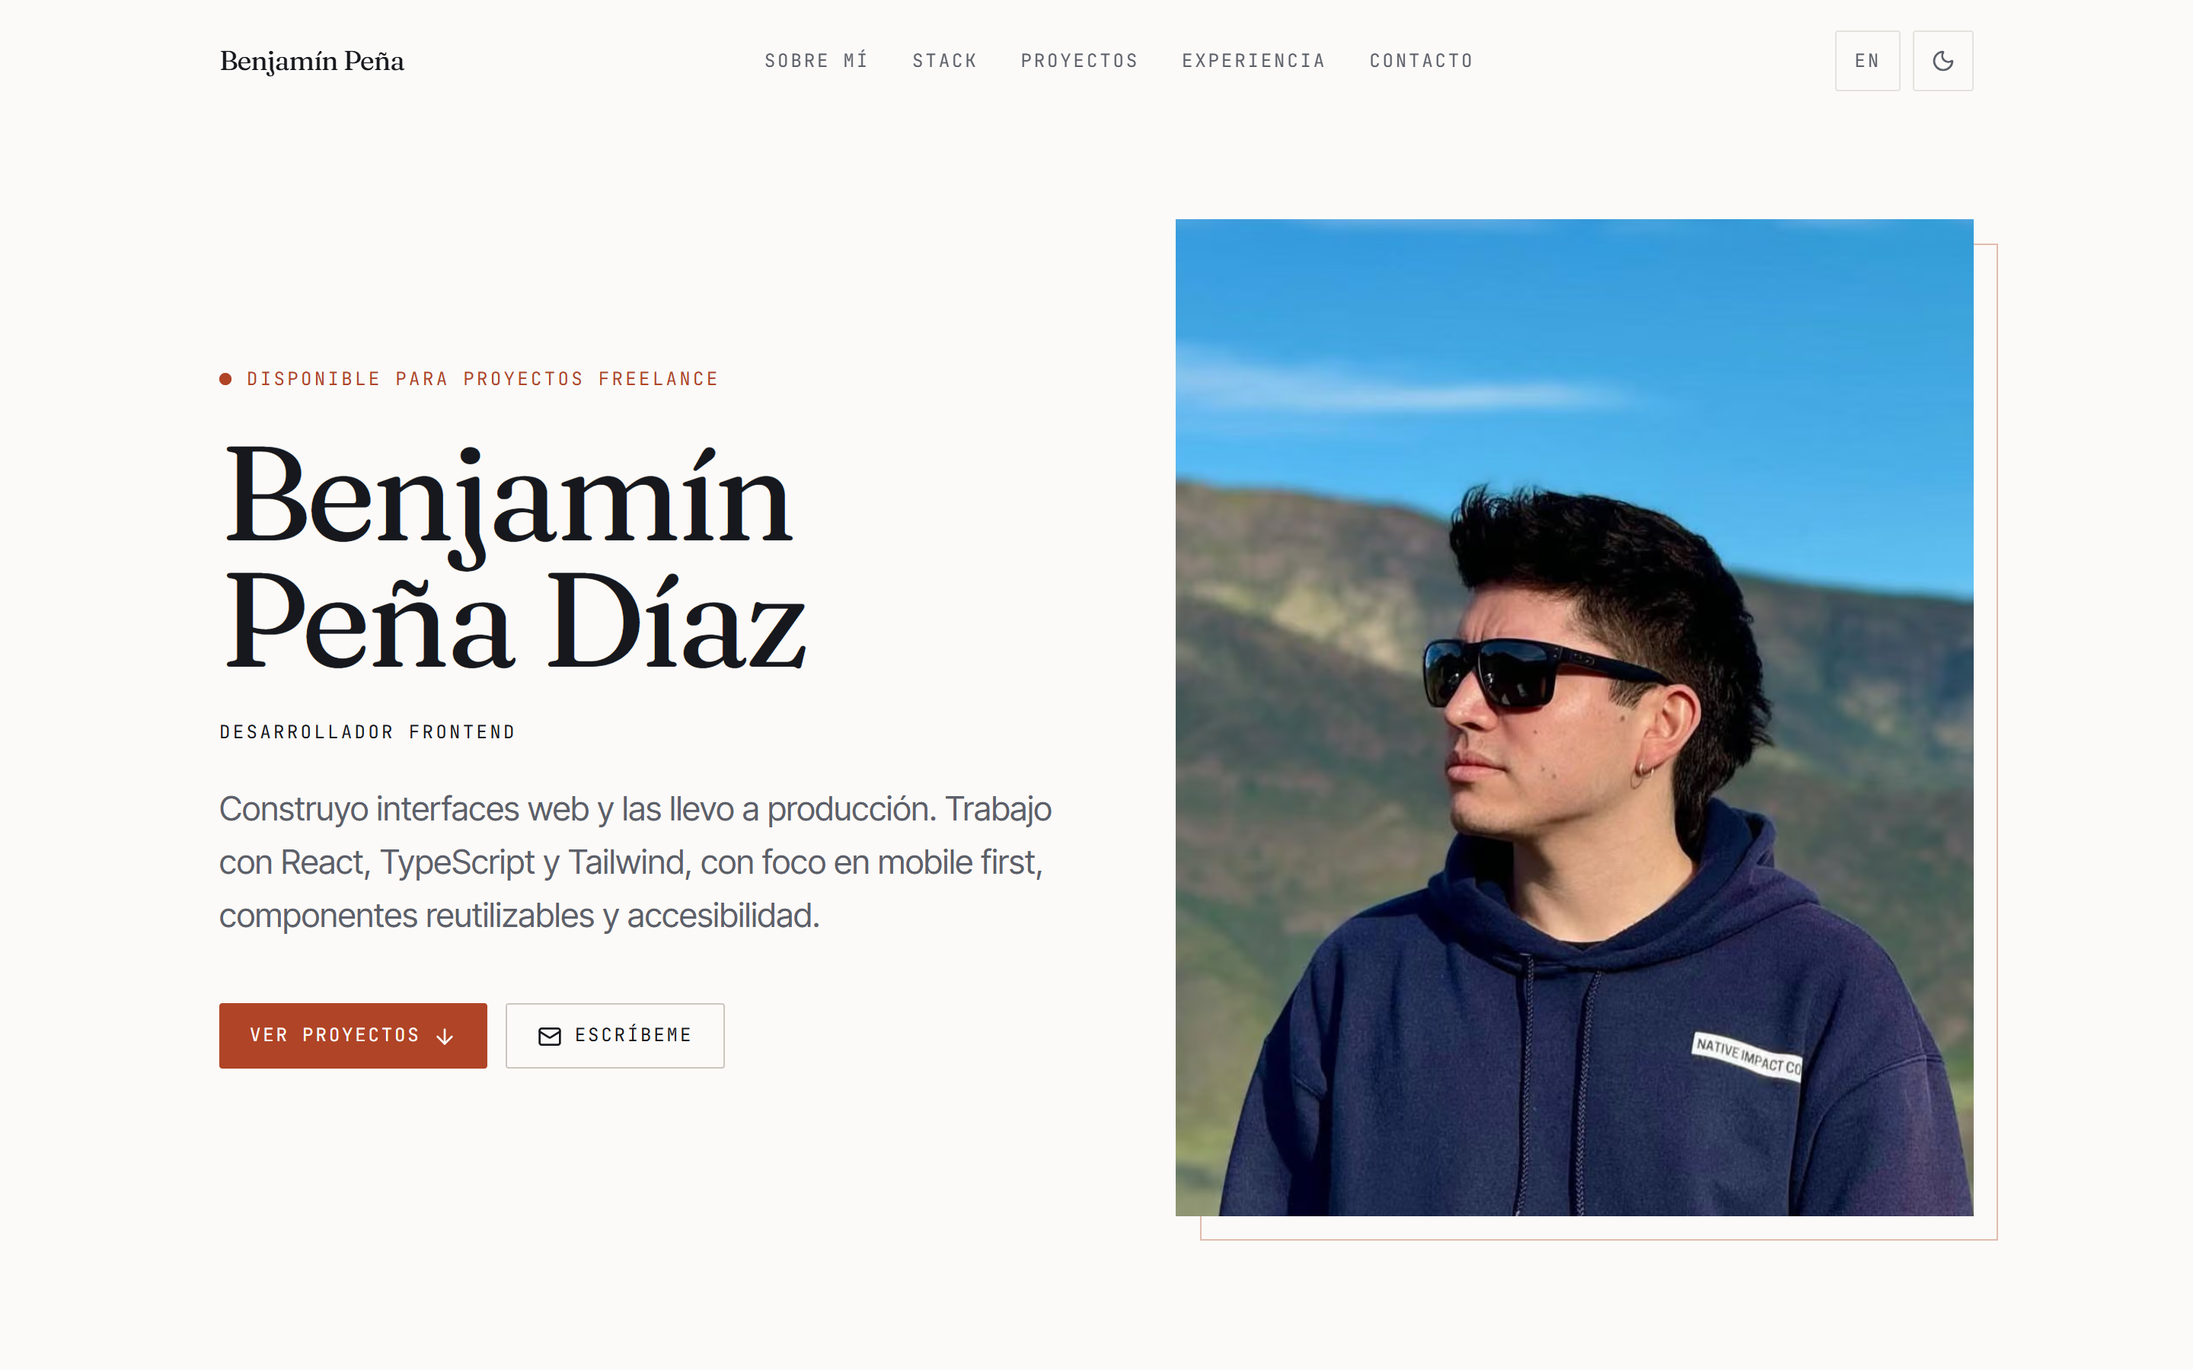
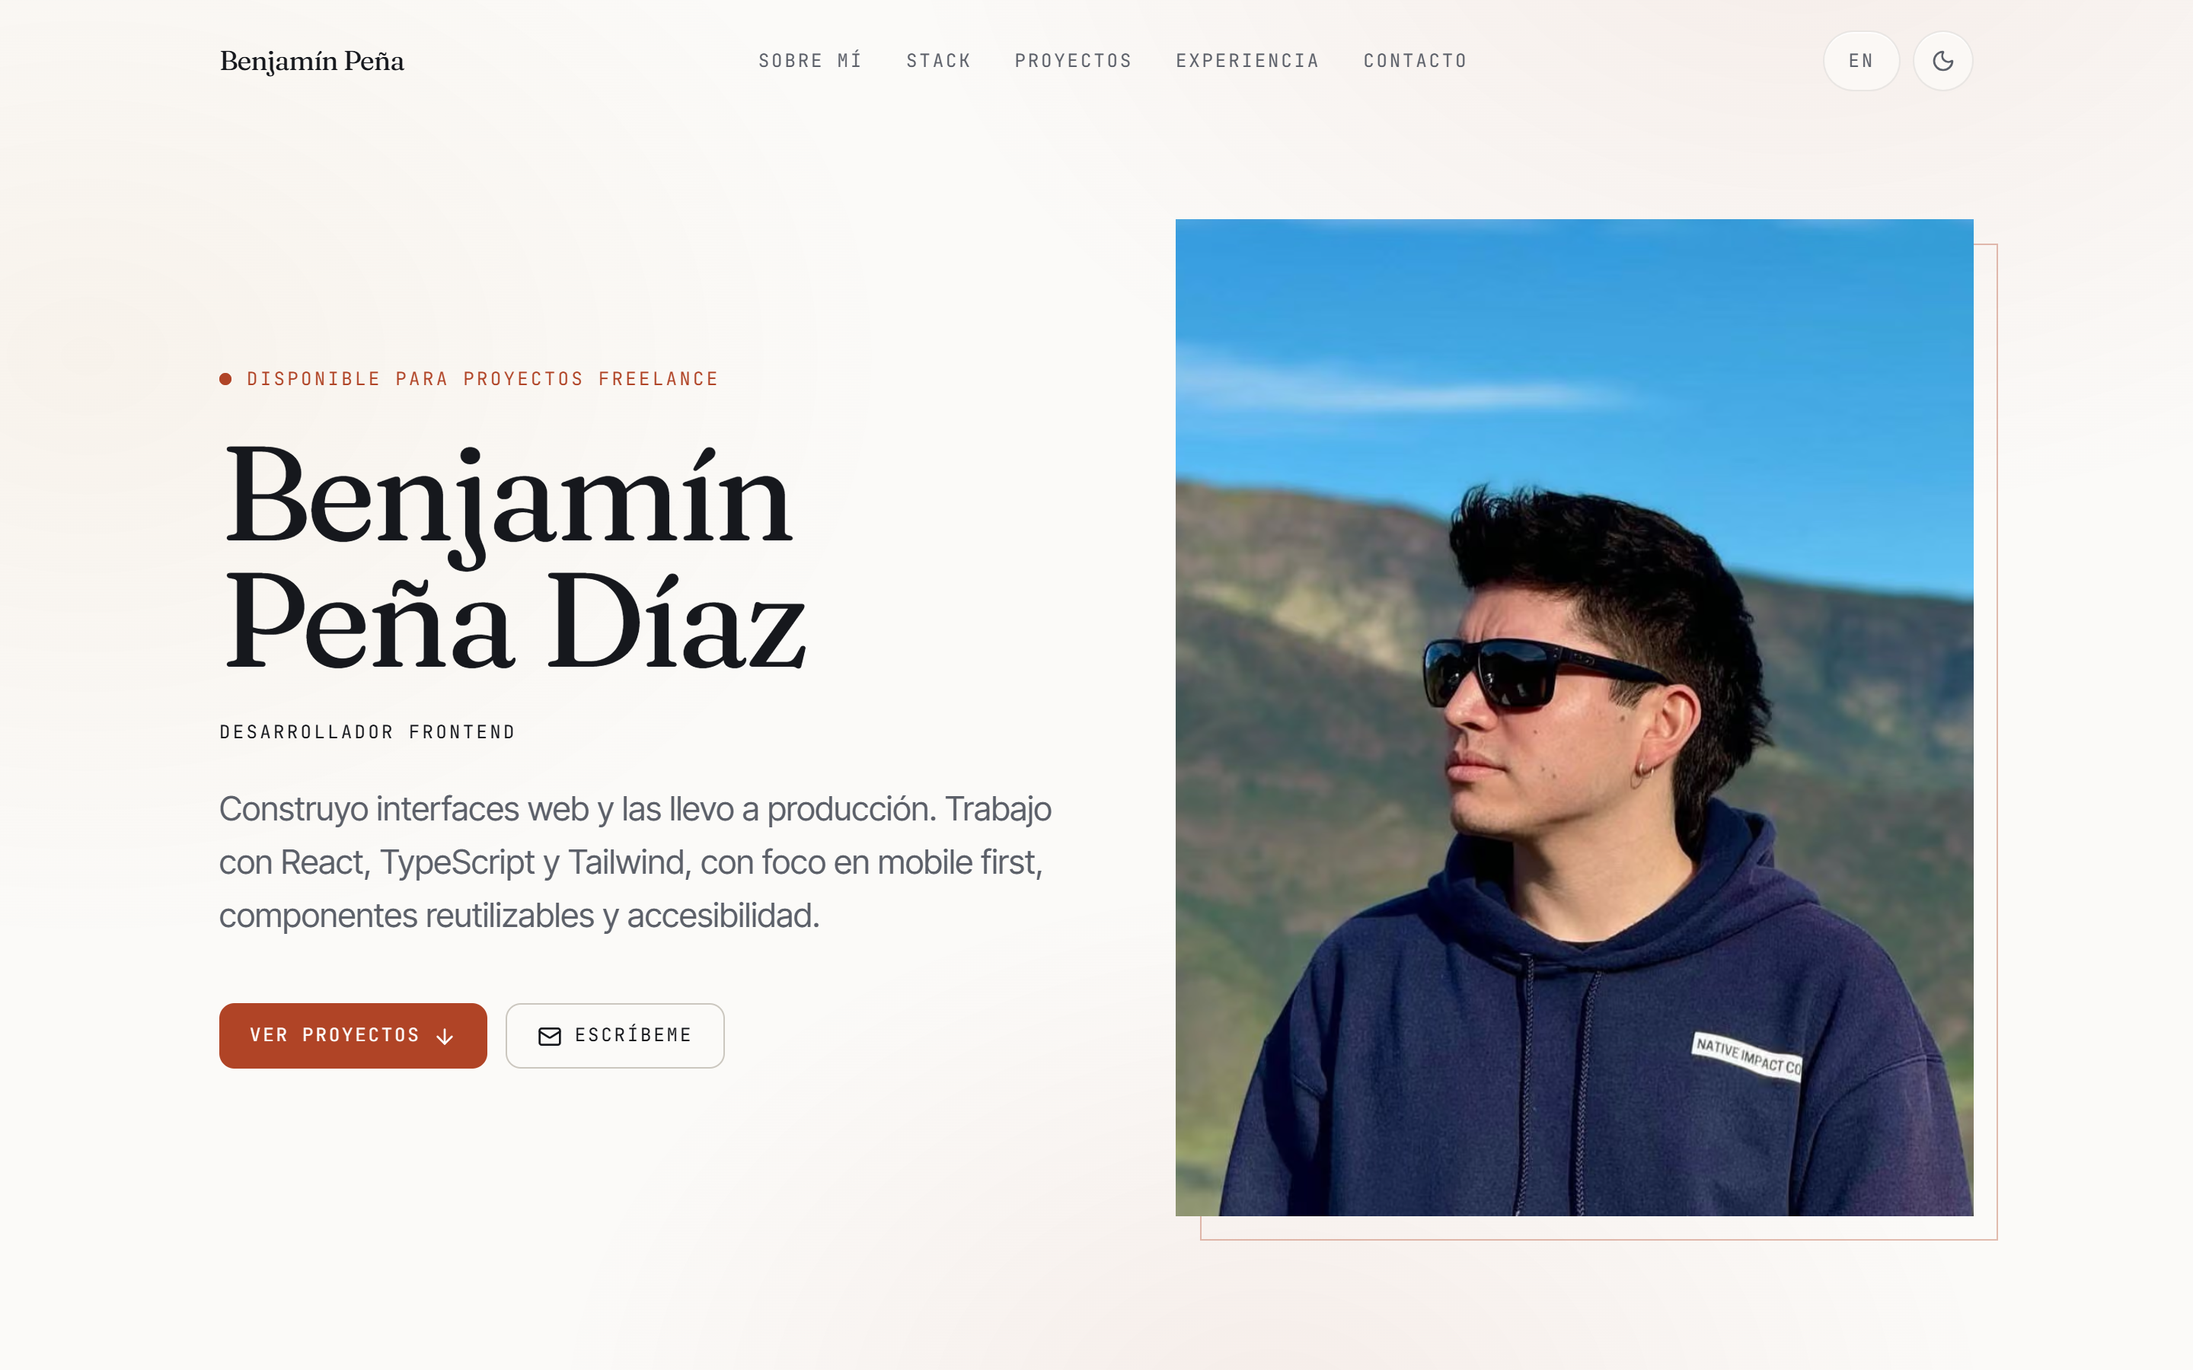
feat(diseño): progreso de lectura, auras de fondo y superficies de vidrio
Toma prestado del material translúcido de macOS Tahoe, pero solo en
parte: aplicarlo entero habría borrado el carácter editorial del sitio,
que se apoya en ser plano y recto.

El criterio es que la forma diga qué es cada cosa. El contenido sigue
opaco y con radios de 2 px; lo que flota y es pulsable —encabezado,
controles de tema e idioma, menú móvil— pasa a vidrio redondeado. Así el
material comunica "esto es un control" en vez de decorar.

- Barra de progreso de lectura con `animation-timeline: scroll(root)`:
  cero JavaScript y fuera del hilo principal.
- Tres auras radiales muy tenues detrás del contenido. Los dos tonos
  salen del mismo acento, uno girado hacia el ámbar, para no romper la
  regla de un solo color.
- Superficies de vidrio con saturación además de desenfoque, y reflejo
  especular en el canto superior.

Un detalle que costó encontrar: escrito a mano, el minificador dejaba
`-webkit-backdrop-filter:blur(16px)saturate(180%)` sin el espacio
obligatorio entre funciones, con lo que la declaración quedaba inválida
y el desenfoque no se aplicaba nunca. Se veía el texto de la sección
anterior nítido a través del encabezado. Ahora el filtro se aplica con
las utilidades de Tailwind, y el vidrio va al 80 % de opacidad para que
el encabezado siga legible aunque el desenfoque falle.

axe: 0 violaciones en las cinco pantallas.

diff --git a/src/app/globals.css b/src/app/globals.css
@@ -28,6 +28,18 @@
   --c-acento-sobre:  #FFFFFF;  /*  5.7:1 sobre acento — AA */
   --c-acento-tenue:  rgba(176, 68, 38, 0.09);
   --c-sombra:        rgba(22, 24, 29, 0.07);
+
+  /* Auras: gradientes muy tenues que dan profundidad al fondo.
+     Ambos tonos salen del acento — uno tal cual y otro girado hacia el
+     ámbar — para no romper la regla de un solo acento. */
+  --c-aura-calida:   rgba(176, 68, 38, 0.07);
+  --c-aura-ambar:    rgba(198, 126, 42, 0.06);
+
+  /* Vidrio: superficies flotantes translúcidas. El borde superior claro
+     imita el reflejo especular que da volumen al material. */
+  --c-vidrio:        rgba(251, 250, 248, 0.80);
+  --c-vidrio-brillo: rgba(255, 255, 255, 0.85);
+  --c-vidrio-borde:  rgba(22, 24, 29, 0.08);
 }
 
 [data-tema="dark"] {
@@ -47,6 +59,14 @@
   --c-acento-sobre:  #14100E;  /*  6.6:1 sobre acento — AA */
   --c-acento-tenue:  rgba(240, 120, 78, 0.13);
   --c-sombra:        rgba(0, 0, 0, 0.4);
+
+  /* En oscuro las auras necesitan algo más de cuerpo para leerse */
+  --c-aura-calida:   rgba(240, 120, 78, 0.11);
+  --c-aura-ambar:    rgba(255, 176, 90, 0.07);
+
+  --c-vidrio:        rgba(12, 14, 18, 0.80);
+  --c-vidrio-brillo: rgba(255, 255, 255, 0.10);
+  --c-vidrio-borde:  rgba(255, 255, 255, 0.08);
 }
 
 @theme inline {
@@ -63,6 +83,8 @@
   --color-acentohover:  var(--c-acento-hover);
   --color-acentosobre:  var(--c-acento-sobre);
   --color-acentotenue:  var(--c-acento-tenue);
+  --color-vidrio:       var(--c-vidrio);
+  --color-vidrioborde:  var(--c-vidrio-borde);
 
   /* --- Tipografía --- */
   --font-display: var(--fuente-display), Georgia, "Times New Roman", serif;
@@ -94,8 +116,12 @@
   --container-lienzo:   77rem;  /* ancho máximo del contenido */
 
   /* --- Forma --- */
-  --radius-pieza: 2px;   /* casi recto: editorial, no burbuja */
-  --radius-chip:  3px;
+  /* Dos familias de forma, y la diferencia es intencional:
+     el contenido editorial va casi recto, y lo que es un control
+     flotante va redondeado. Así la forma comunica qué es pulsable. */
+  --radius-pieza:   2px;    /* tarjetas, reglas: editorial */
+  --radius-control: 10px;   /* botones */
+  --radius-chip:    7px;
 
   /* --- Movimiento --- */
   --ease-salida: cubic-bezier(0.16, 1, 0.3, 1);
@@ -117,8 +143,14 @@
     -webkit-text-size-adjust: 100%;
   }
 
-  body {
+  html {
+    /* El color vive aquí, no en <body>, para que la capa de auras pueda
+       colocarse detrás del contenido con z-index negativo. */
     background-color: var(--c-fondo);
+  }
+
+  body {
+    background-color: transparent;
     color: var(--c-texto);
     font-family: var(--font-sans);
     font-size: var(--text-cuerpo);
@@ -307,5 +339,111 @@
   ::view-transition-old(*),
   ::view-transition-new(*) {
     animation: none !important;
+  }
+}
+
+/* ============================================================
+   AURAS AMBIENTALES
+
+   Tres gradientes radiales muy tenues, fijos detrás del contenido.
+   Dan profundidad sin ruido y sin coste: son gradientes de fondo, no
+   un filtro de desenfoque, así que no obligan a la GPU a recomponer.
+   ============================================================ */
+
+.ambiente {
+  position: fixed;
+  inset: 0;
+  z-index: -1;
+  pointer-events: none;
+  background:
+    radial-gradient(
+      60rem 42rem at 82% -8%,
+      var(--c-aura-calida),
+      transparent 62%
+    ),
+    radial-gradient(
+      52rem 38rem at 4% 26%,
+      var(--c-aura-ambar),
+      transparent 64%
+    ),
+    radial-gradient(
+      48rem 36rem at 58% 104%,
+      var(--c-aura-calida),
+      transparent 62%
+    );
+}
+
+/* ============================================================
+   PROGRESO DE LECTURA
+
+   Ligado al scroll de la raíz con CSS: cero JavaScript y fuera del
+   hilo principal. Sin soporte, la barra queda en scaleX(0), o sea
+   invisible, que es una ausencia limpia.
+   ============================================================ */
+
+@keyframes avanzar-lectura {
+  from {
+    transform: scaleX(0);
+  }
+  to {
+    transform: scaleX(1);
+  }
+}
+
+.progreso-lectura {
+  transform: scaleX(0);
+  transform-origin: left center;
+  background-image: linear-gradient(
+    90deg,
+    var(--c-acento) 0%,
+    var(--c-aura-ambar) 55%,
+    var(--c-acento) 100%
+  );
+}
+
+@supports (animation-timeline: scroll()) {
+  .progreso-lectura {
+    animation: avanzar-lectura linear both;
+    animation-timeline: scroll(root block);
+  }
+}
+
+@media (prefers-reduced-motion: reduce) {
+  .progreso-lectura {
+    animation: none;
+    transform: scaleX(0);
+  }
+}
+
+/* ============================================================
+   VIDRIO
+
+   Superficies flotantes translúcidas, inspiradas de lejos en el
+   material de macOS Tahoe. Se reserva para controles y para el
+   encabezado: el contenido editorial sigue siendo opaco y recto,
+   de modo que el vidrio comunica "esto es un control".
+   ============================================================ */
+
+@layer components {
+  /*
+   * El desenfoque NO se declara aquí: se aplica con las utilidades
+   * `backdrop-blur-xl backdrop-saturate-150` junto a esta clase. Escrito a
+   * mano, el minificador dejaba solo la variante prefijada y sin el espacio
+   * obligatorio entre funciones —blur(16px)saturate(180%)—, con lo que la
+   * declaración quedaba inválida y el desenfoque no se aplicaba nunca.
+   */
+  .vidrio {
+    background-color: var(--c-vidrio);
+    border: 1px solid var(--c-vidrio-borde);
+    /* Reflejo especular en el canto superior: da volumen */
+    box-shadow: inset 0 1px 0 var(--c-vidrio-brillo);
+  }
+
+  /* Sin soporte de backdrop-filter, se cae a un fondo sólido para no
+     dejar texto sobre una superficie semitransparente ilegible. */
+  @supports not ((backdrop-filter: blur(1px)) or (-webkit-backdrop-filter: blur(1px))) {
+    .vidrio {
+      background-color: var(--c-superficie);
+    }
   }
 }

diff --git a/src/components/layout/Encabezado.tsx b/src/components/layout/Encabezado.tsx
@@ -78,7 +78,7 @@ export function Encabezado({ idioma, t }: Props) {
       className={cn(
         "fixed inset-x-0 top-0 z-50 transition-colors duration-300",
         desplazado || abierto
-          ? "border-b border-borde bg-fondo/85 backdrop-blur-md"
+          ? "vidrio backdrop-blur-xl backdrop-saturate-150 border-x-0 border-t-0 border-b-[var(--c-vidrio-borde)]"
           : "border-b border-transparent",
       )}
     >
@@ -134,7 +134,7 @@ export function Encabezado({ idioma, t }: Props) {
             aria-expanded={abierto}
             aria-controls="menu-movil"
             aria-label={abierto ? t.nav.cerrarMenu : t.nav.abrirMenu}
-            className="inline-flex size-10 items-center justify-center rounded-pieza border border-borde text-atenuado transition-colors hover:border-acento hover:text-acento md:hidden"
+            className="vidrio backdrop-blur-xl backdrop-saturate-150 inline-flex size-10 items-center justify-center rounded-full text-atenuado transition-colors hover:text-acento md:hidden"
           >
             {abierto ? (
               <X aria-hidden="true" className="size-4" />

diff --git a/src/components/Pagina.tsx b/src/components/Pagina.tsx
@@ -4,6 +4,7 @@ import { perfil, SITIO_URL } from "@/data/perfil";
 import { Encabezado } from "@/components/layout/Encabezado";
 import { PieDePagina } from "@/components/layout/PieDePagina";
 import { SaltarAlContenido } from "@/components/layout/SaltarAlContenido";
+import { ProgresoLectura } from "@/components/layout/ProgresoLectura";
 import { Hero } from "@/components/sections/Hero";
 import { SobreMi } from "@/components/sections/SobreMi";
 import { Stack } from "@/components/sections/Stack";
@@ -49,6 +50,7 @@ export function Pagina({ idioma }: Props) {
   return (
     <>
       <SaltarAlContenido texto={t.saltarAlContenido} />
+      <ProgresoLectura />
       <Encabezado idioma={idioma} t={t} />
 
       <ProveedorTecnologia>

diff --git a/src/components/layout/ProgresoLectura.tsx b/src/components/layout/ProgresoLectura.tsx
@@ -1,0 +1,20 @@
+/**
+ * Barra de progreso de lectura, fija en el borde superior.
+ *
+ * Se anima con `animation-timeline: scroll(root)`: no hay JavaScript, ni
+ * escuchas de scroll, ni trabajo en el hilo principal. Por eso puede ser
+ * un componente de servidor.
+ *
+ * Es decorativa: no aporta información que no esté ya en la barra de
+ * desplazamiento del navegador, así que se oculta a lectores de pantalla.
+ */
+export function ProgresoLectura() {
+  return (
+    <div
+      aria-hidden="true"
+      className="pointer-events-none fixed inset-x-0 top-0 z-[60] h-[3px]"
+    >
+      <div className="progreso-lectura h-full w-full" />
+    </div>
+  );
+}

diff --git a/src/components/layout/BotonIdioma.tsx b/src/components/layout/BotonIdioma.tsx
@@ -37,7 +37,7 @@ export function BotonIdioma({ idioma, t }: Props) {
       hrefLang={idiomaAlterno(idioma)}
       aria-label={t.idioma.etiqueta}
       title={t.idioma.etiqueta}
-      className="inline-flex h-10 items-center justify-center rounded-pieza border border-borde px-3 font-mono text-etiqueta tracking-[0.12em] text-atenuado transition-colors hover:border-acento hover:text-acento"
+      className="vidrio backdrop-blur-xl backdrop-saturate-150 inline-flex h-10 items-center justify-center rounded-full px-4 font-mono text-etiqueta tracking-[0.12em] text-atenuado transition-colors hover:text-acento"
     >
       {t.idioma.codigo}
     </a>

diff --git a/src/components/LayoutRaiz.tsx b/src/components/LayoutRaiz.tsx
@@ -1,5 +1,6 @@
 import type { ReactNode } from "react";
 import type { Idioma } from "@/types";
+import { Ambiente } from "@/components/layout/Ambiente";
 import { clasesFuentes } from "@/lib/fuentes";
 import { scriptTema } from "@/lib/tema";
 import "@/app/globals.css";
@@ -32,7 +33,10 @@ export function LayoutRaiz({ idioma, children }: Props) {
           <style>{".revelar{transform:none!important}"}</style>
         </noscript>
       </head>
-      <body className="min-h-dvh bg-fondo text-texto">{children}</body>
+      <body className="min-h-dvh text-texto">
+        <Ambiente />
+        {children}
+      </body>
     </html>
   );
 }

diff --git a/src/components/layout/BotonTema.tsx b/src/components/layout/BotonTema.tsx
@@ -91,7 +91,7 @@ export function BotonTema({ t }: Props) {
       onClick={alternar}
       aria-label={etiqueta}
       title={etiqueta}
-      className="inline-flex size-10 items-center justify-center rounded-pieza border border-borde text-atenuado transition-colors hover:border-acento hover:text-acento"
+      className="vidrio backdrop-blur-xl backdrop-saturate-150 inline-flex size-10 items-center justify-center rounded-full text-atenuado transition-colors hover:text-acento"
     >
       {/* Se alternan por CSS: correctos incluso antes de hidratar. */}
       <Sun aria-hidden="true" className="hidden size-4 dark:block" />

diff --git a/src/components/ui/Boton.tsx b/src/components/ui/Boton.tsx
@@ -26,7 +26,7 @@ type Props = {
 };
 
 const base =
-  "group/boton inline-flex items-center justify-center gap-2 rounded-pieza " +
+  "group/boton inline-flex items-center justify-center gap-2 rounded-control " +
   "px-5 py-3 font-mono text-etiqueta uppercase tracking-[0.12em] " +
   "transition-colors duration-200 " +
   "focus-visible:outline-2 focus-visible:outline-offset-3 focus-visible:outline-acento";

diff --git a/src/components/layout/Ambiente.tsx b/src/components/layout/Ambiente.tsx
@@ -1,0 +1,10 @@
+/**
+ * Capa de auras del fondo.
+ *
+ * Va detrás de todo con z-index negativo, lo que exige que el color de
+ * fondo viva en <html> y no en <body> (ver globals.css). Es puramente
+ * decorativa: sin contenido y oculta a lectores de pantalla.
+ */
+export function Ambiente() {
+  return <div aria-hidden="true" className="ambiente" />;
+}

diff --git a/README.md b/README.md
@@ -206,9 +206,26 @@ La estructura es un único root layout dentro de `src/app/[idioma]/`, que es lo 
 
 No se usó `next-intl` ni similar: para dos idiomas y un diccionario plano, un `Record<Idioma, string>` tipado hace lo mismo con cero kilobytes de runtime.
 
+### Vidrio y auras
+
+Hay una inspiración lejana en el material translúcido de macOS Tahoe, pero deliberadamente parcial: aplicarlo entero habría borrado el carácter editorial del sitio, que se apoya justamente en ser plano y recto.
+
+El criterio es que **la forma diga qué es cada cosa**. El contenido —tarjetas, reglas, secciones— sigue opaco y con radios de 2 px. Lo que flota y es pulsable —el encabezado, los controles de tema e idioma, el menú móvil— es vidrio translúcido y redondeado. Así el material comunica "esto es un control" en vez de ser decoración.
+
+Tres detalles que hacen que el vidrio se lea como material y no como transparencia:
+
+- **Saturación además de desenfoque.** Sin `backdrop-saturate`, el desenfoque apaga los colores de detrás y el resultado parece sucio.
+- **Reflejo especular** en el canto superior (`box-shadow: inset 0 1px 0`), que es lo que da sensación de volumen.
+- **Opacidad al 80 %**, no menos. Con el desenfoque aplicado sigue leyéndose como vidrio, y si el desenfoque falla en algún navegador el encabezado sigue siendo legible en vez de dejar el texto de la sección anterior chocando con el del nav.
+
+Las **auras** son tres gradientes radiales muy tenues fijos detrás del contenido. Ambos tonos salen del mismo acento —uno tal cual y otro girado hacia el ámbar— para no romper la regla de un solo color. Son gradientes de fondo y no un filtro de desenfoque, así que no cuestan recomposición. Viven en una capa con `z-index` negativo, lo que obliga a que el color de fondo esté en `<html>` y no en `<body>`.
+
 ### Lo que se mueve, y por qué
 
-Cuatro interacciones, todas respetando `prefers-reduced-motion` y ninguna a costa de las métricas:
+Cinco interacciones, todas respetando `prefers-reduced-motion` y ninguna a costa de las métricas:
+
+- **Progreso de lectura.** Una barra de 3 px en el borde superior, con degradado del acento al ámbar. Va con `animation-timeline: scroll(root)`: sin JavaScript, sin escuchas de scroll y fuera del hilo principal. Es decorativa —no aporta nada que la barra de desplazamiento no diga ya— así que se oculta a lectores de pantalla.
+
 
 - **Miniaturas de proyecto.** Cada tarjeta muestra una captura del sitio real, generada por [`scripts/capturar-proyectos.mjs`](scripts/capturar-proyectos.mjs) desde la demo en producción, así que no se desactualizan a mano. Se ven siempre, no al pasar el cursor: esconder la captura tras un hover dejaría fuera a quien entra desde un teléfono, y es justo lo que alguien quiere ver antes de decidir si abre el proyecto. Lo que reacciona es un acercamiento discreto. Las tres cargan en diferido — la sección queda bajo el pliegue en todos los tamaños, así que precargarlas solo le quitaría ancho de banda a la foto del hero, que sí es el elemento LCP.
 
